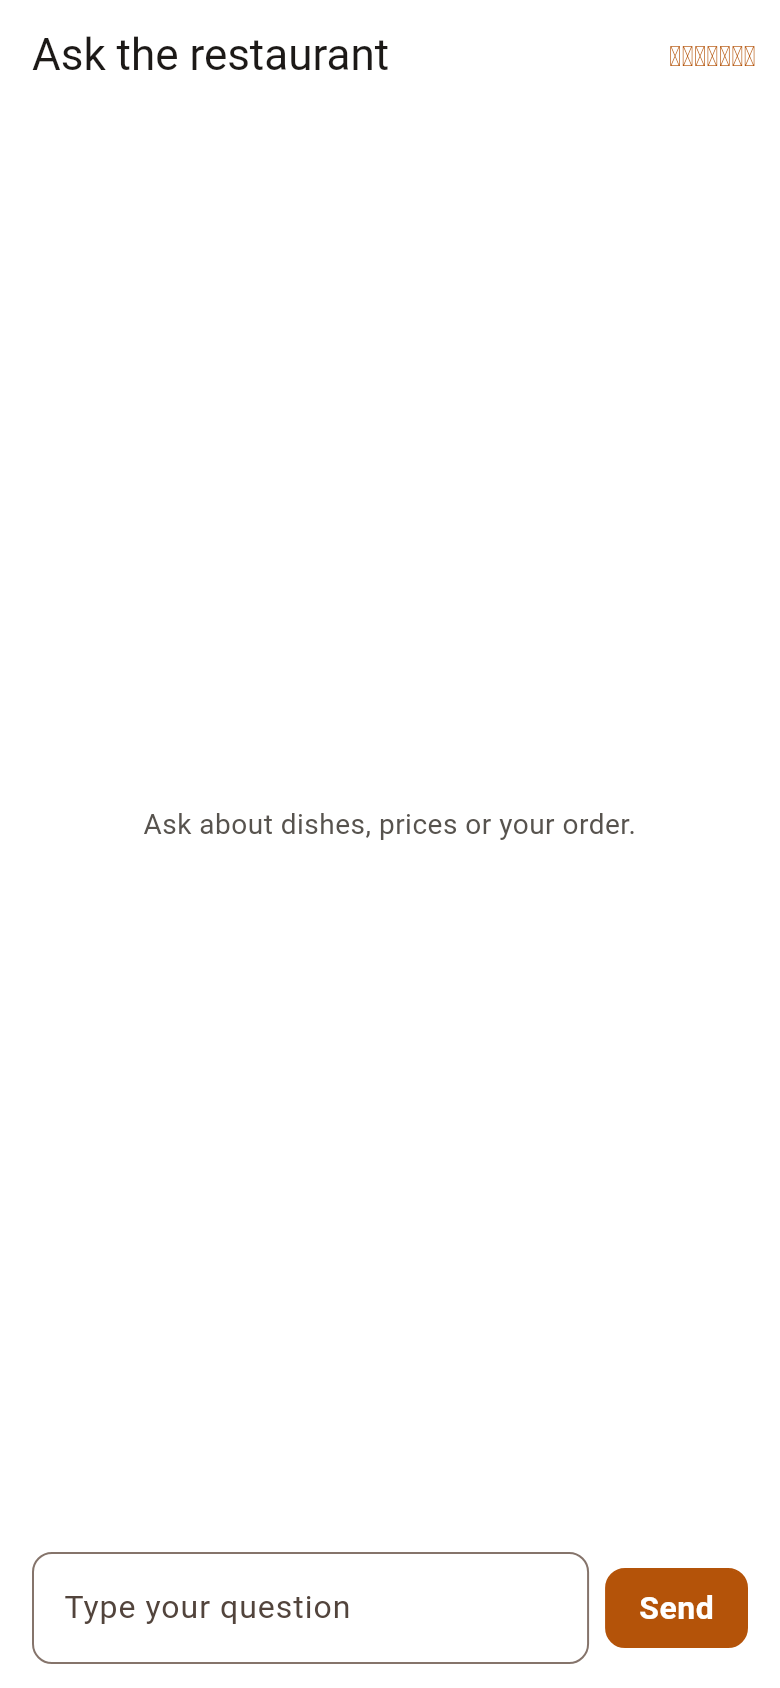
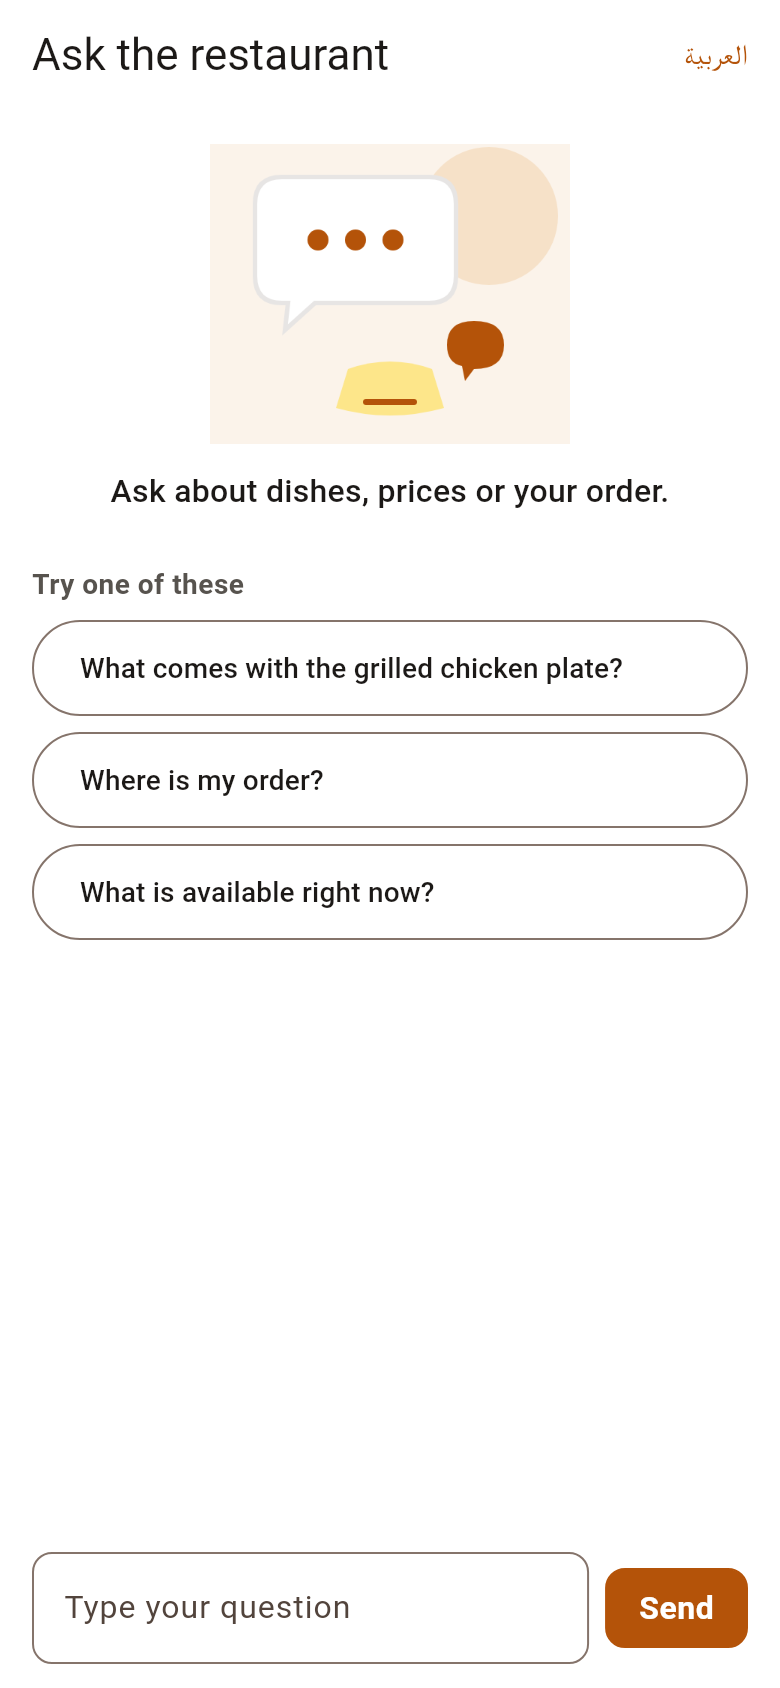
review: round 2 evidence, corrected totals and blocked items
Records the axe-core scan of seven admin pages at 1280 and 390 px (0
violations, 0 px overflow), the admin keyboard walk, the customer semantics
tests, the contrast table, and the captures for the new navigation.

Corrects the round 1 totals, which did not match their score rows: customer
76 after round 1 (printed as 78), admin 76. Round 2 is customer 83 and admin
78, both CONDITIONAL.

Still blocked: screen-reader and keyboard checks on a device, Arabic on a
device, the UAE copy review, and the customer keyboard pass.

Claude-Session: https://claude.ai/code/session_01Cz3SFRn5hDTUEeGBn2V1Rh

diff --git a/replica/ux-review-2026-10-29.md b/replica/ux-review-2026-10-29.md
@@ -1,50 +1,97 @@
 # Experience review: customer app and admin console
 
 Run with the Experience Architect skill pack (installed at `.claude/skills/`, in REVIEW mode with the screen review
-protocol and the scoring gate). Date: 2026-10-29. Reviewer's scores are estimates from the captures listed below; they
-are not user-tested.
+protocol and the scoring gate). Date: 2026-10-29. Scores are estimates from the captures and automated checks listed
+below. Nothing here has been user-tested or run with a screen reader.
 
 ## Verdict
 
-**CONDITIONAL.** The customer app scores **78/100** and the admin console **76/100** after this round of fixes. Before
-the fixes, both were below 75 (FAIL). The verdict is CONDITIONAL, not PASS, for one reason: no assistive-technology
-(screen-reader or keyboard) verification has been run, so every accessibility claim stays `UNKNOWN`. The skill allows
-a formal release PASS only with E4 evidence on the critical journeys.
+**CONDITIONAL, both surfaces.** After round 2 the customer app scores **83/100** and the admin console **78/100**.
+Round 1 scores were 76 and 76; the round 1 total for the customer app was printed as 78 and has been corrected here
+(see "Score correction" below). Both are in the 75–84 band.
 
-No hard-stop failure was found in the screens reviewed.
+Neither surface can reach PASS yet, for two reasons:
+
+1. No assistive-technology pass has run on a device. TalkBack and VoiceOver are not available in this environment, so
+   screen-reader behaviour is `UNKNOWN`. The customer app has no keyboard pass at all.
+2. Arabic has not been checked on a device, and the UAE regional rules have not been applied to the Arabic copy.
+
+No hard-stop failure was found in the screens reviewed. Accessibility is below 12 on both surfaces, which blocks PASS
+under the gate regardless of the other scores.
+
+## Round 2: what changed
+
+- **Bottom navigation (customer):** the signed-in app now has four destinations: Home, Menu, My orders, Membership.
+- **Ask the restaurant (customer):** an icon in the app bar of Home and Menu. In round 2 it was first a floating button,
+  which covered the Add button of the second popular dish. The final capture shows the Add buttons unobstructed.
+- **Assistant empty state (customer):** an illustration, one line of guidance, and three example questions that fill
+  the input when tapped.
+- **Admin narrow layout:** sidebar stacks below 720 px; tables scroll inside their cards; page-level overflow is 0 px at
+  390 px and 1280 px in the scan.
+- **Admin names and focus:** every table region is focusable and named; the Products, Offers, Promotions, Categories,
+  Orders and Zones tables have row and column headers; the Accept button names its order.
 
 ## Evidence
 
-| Surface | Screens | Evidence level | What was checked | What was not |
-| --- | --- | --- | --- | --- |
-| Customer app | Home (English and Arabic), menu, cart, checkout, orders, order tracking, membership, sign-in, assistant | E3 rendered | Real Flutter rendering at 390×844 with the app's theme and Roboto fonts; images and layout | Screen reader, keyboard, focus order, dynamic type. Arabic letters do not render in the capture font, so Arabic is checked by layout only |
-| Admin console | Login, orders, products, categories, offers, promotions, delivery areas, assistant | E3 rendered | Real browser pages with the API running on the test database | Keyboard-only pass, screen-reader pass, responsive widths below 1280 px |
+| Surface | Evidence level | What was checked | What was not |
+| --- | --- | --- | --- |
+| Customer app | E3 rendered + E2 automated | 11 screen captures at 390×844 (`replica/review/screens/`); four semantics tests (every icon button named, every icon button and menu button at least 48 px, four nav destinations labelled, Ask button tooltip in Arabic); 60/60 Flutter tests | Screen reader on a device; keyboard or switch access; focus order; dynamic type; Arabic on a device (captures use FreeSerif as the fallback font) |
+| Admin console | E3 rendered + E2 automated | axe-core 4.14.0 scan of 7 pages at 1280 px and 390 px: **0 violations**, 0 px page overflow (`replica/review/admin/axe-results.json`); keyboard walk of the sidebar and tables: every stop has a name and a visible focus outline; screenshots at both widths | Accepting an order by keyboard (the test database had no unaccepted orders); screen reader on a device; 768 px; tablet widths |
 
-Screenshots: `replica/review/screens/` (customer) and `replica/review/admin/` (admin), before and after.
+Scripts: `replica/review/tools/` (axe scan, keyboard walk, overflow finder). Screenshots: `replica/review/screens/` and
+`replica/review/admin/`.
+
+### Colour contrast (customer tokens)
+
+WCAG 2.2 AA: 4.5:1 for text, 3:1 for non-text. Computed from the theme tokens with the relative luminance formula.
+
+| Pair | Ratio | Result |
+| --- | --- | --- |
+| Text on background | 17.49 | Pass |
+| Muted text on background | 7.63 | Pass |
+| Muted text on surface | 6.99 | Pass |
+| Accent on background | 5.02 | Pass |
+| On-accent on accent | 5.02 | Pass |
+| Danger on background | 6.47 | Pass |
+| Hero subtitle | 16.03 | Pass |
+| Lilac, peach and mint tone inks | 7.57, 6.38, 6.78 | Pass |
+| Membership brand text | 8.98 | Pass |
+| Accent icon on accent-soft (non-text) | 4.48 | Pass (3:1 applies) |
+| Disabled "Coming soon" label | 2.45 | Exempt: inactive controls are not held to the text rule |
 
 ## Scores
 
-Dimensions from the skill's scoring engine (100 points). "Before" is the first capture; "After" is this round.
+Round 2 scores by dimension (100 points). "R1" is the round 1 total from the rows below it; "R2" is this round.
 
-| Dimension | Weight | Customer before → after | Admin before → after |
-| --- | --- | --- | --- |
-| Task success | 15 | 10 → 12 | 10 → 12 |
-| Accessibility | 15 | 6 → 8 (UNKNOWN for AT) | 6 → 8 (UNKNOWN for AT) |
-| Usability | 10 | 6 → 8 | 6 → 8 |
-| Cognitive clarity | 10 | 6 → 8 | 5 → 8 |
-| Information architecture | 8 | 5 → 7 | 6 → 7 |
-| Interaction quality | 8 | 4 → 6 | 4 → 6 |
-| Error prevention and recovery | 7 | 5 → 5 | 5 → 5 |
-| Cultural and local relevance | 6 | 4 → 5 | 4 → 4 |
-| Visual hierarchy and craft | 6 | 2 → 5 | 2 → 6 |
-| Content clarity | 5 | 3 → 4 | 3 → 4 |
-| Responsive and adaptive | 4 | 3 → 3 | 2 → 2 |
-| Design-system consistency | 3 | 2 → 2 | 2 → 3 |
-| Trust and ethical design | 3 | 2 → 3 | 2 → 3 |
-| **Total** | **100** | **52 → 78** | **53 → 76** |
+| Dimension | Weight | Customer R1 → R2 | Admin R1 → R2 | What moved |
+| --- | --- | --- | --- | --- |
+| Task success | 15 | 12 → 12 | 12 → 12 | No new task evidence |
+| Accessibility | 15 | 8 → 10 | 8 → 9 | Automated checks and the admin keyboard walk. AT still `UNKNOWN`, so capped |
+| Usability | 10 | 8 → 8 | 8 → 8 | |
+| Cognitive clarity | 10 | 8 → 9 | 8 → 8 | Four destinations are visible at once |
+| Information architecture | 8 | 7 → 8 | 7 → 7 | Membership, orders and assistant no longer hidden in "More" |
+| Interaction quality | 8 | 6 → 7 | 6 → 6 | The Ask button no longer covers Add buttons |
+| Error prevention and recovery | 7 | 5 → 5 | 5 → 5 | |
+| Cultural and local relevance | 6 | 5 → 5 | 4 → 4 | UAE rules not yet applied to Arabic copy |
+| Visual hierarchy and craft | 6 | 5 → 6 | 6 → 6 | Assistant illustration and empty state |
+| Content clarity | 5 | 4 → 5 | 4 → 4 | Example questions in the assistant |
+| Responsive and adaptive | 4 | 3 → 3 | 2 → 3 | Admin tables scroll; no page overflow at 390 or 1280 px. 768 px not checked |
+| Design-system consistency | 3 | 2 → 2 | 3 → 3 | |
+| Trust and ethical design | 3 | 3 → 3 | 3 → 3 | |
+| **Total** | **100** | **76 → 83** | **76 → 78** | |
+
+### Score correction
+
+The round 1 totals printed in the earlier version of this review did not match their rows. Summed from the rows,
+round 1 was:
+
+- Customer, before: 58 (printed as 52). After: 76 (printed as 78).
+- Admin, before: 57 (printed as 53). After: 76 (printed as 76).
+
+The verdict for round 1 does not change: both surfaces were in the same band before and after round 1. The totals above
+are the sums of the rows.
 
 Thresholds: 85 or more with no open S1 and accessibility at 12 or more is a PASS. 75–84 is CONDITIONAL. Below 75 is FAIL.
-Both surfaces are below 85, and accessibility is below 12 because it has not been tested.
 
 ## Findings and status
 
@@ -53,30 +100,32 @@ issue, S4 is polish.
 
 | # | Surface | Sev | Finding | Status |
 | --- | --- | --- | --- | --- |
-| 1 | Customer | S2 | The screens had no imagery. Every surface was text on white, so the app looked blank | Fixed: flat illustrations for the hero, the empty cart and orders, membership, and dish pictures |
+| 1 | Customer | S2 | The screens had no imagery | Fixed: flat illustrations for the hero, empty states, membership, and dish pictures |
 | 2 | Customer | S2 | The membership plan showed "AED 0.00 per year", which reads as a free plan | Fixed: "Price to be announced" until the price is confirmed and the plan is active |
-| 3 | Customer | S2 | The home app bar had five icons and cut the title to "Sample …" | Fixed: language stays; membership, orders, assistant and sign-out move into a "More" menu |
-| 4 | Customer | S3 | Membership, orders and assistant are now behind "More", so they are harder to find | Open: a bottom navigation bar would fix this. Needs a decision on the four destinations |
+| 3 | Customer | S2 | The home app bar had five icons and cut the title | Fixed in round 1: the More menu. Round 2 moved Ask into the app bar as an icon |
+| 4 | Customer | S3 | Membership, orders and assistant were behind "More" | Fixed in round 2: bottom bar with Home, Menu, My orders and Membership |
 | 5 | Customer | S2 | The quick action "Track order" was cut to "Tra…" | Fixed: icon above a label that wraps to two lines |
-| 6 | Customer | S3 | Dish names broke mid-word in the popular list ("chicke n plate") and prices did not line up | Fixed: a thumbnail row with the name and price in fixed columns |
-| 7 | Customer | S2 | The Add button read "Add: Garden salad" and wrapped | Fixed: a round 48 px button, with the dish named in its tooltip and screen-reader label |
+| 6 | Customer | S3 | Dish names broke mid-word and prices did not line up | Fixed: a thumbnail row with the name and price in fixed columns |
+| 7 | Customer | S2 | The Add button read "Add: Garden salad" and wrapped | Fixed: a round 48 px button, with the dish named in its tooltip and label |
 | 8 | Customer | S3 | The membership tile summary was cut after two lines | Fixed: up to three lines, wider tiles |
 | 9 | Customer | S3 | Order cards had Material's default pink tint and a black outline | Fixed: the app's surface and border colours |
-| 10 | Customer | S3 | The assistant's empty state is plain text with no guidance | Open: add an illustration and two or three example questions |
+| 10 | Customer | S3 | The assistant's empty state was plain text | Fixed in round 2: illustration, guidance, three example questions |
 | 11 | Customer | S4 | The cake illustration reads as a wedge | Open: redraw |
-| 12 | Customer | S3 | The Arabic labels in the review captures show as boxes | Not a product defect: the capture font has no Arabic glyphs. Check on a device |
-| 13 | Customer | S3 | The UAE regional file is not yet applied to UI copy (for example, number and date conventions) | Open: apply it when the Arabic copy is reviewed |
-| 14 | Admin | S2 | The orders page used unstyled browser buttons and had no card or sort order | Fixed: shared classes, waiting orders listed first, a status for each order |
-| 15 | Admin | S2 | Products without photos showed a blank "No picture" box | Fixed: the category's illustration, chosen in the admin |
+| 12 | Customer | S3 | Arabic labels show as boxes in the captures | Not a product defect: the capture font has no Arabic glyphs. Open: check on a device |
+| 13 | Customer | S3 | The UAE regional rules are not applied to the Arabic copy | Open: needs a native-speaker review of the copy and the number, date, currency and phone display |
+| 14 | Admin | S2 | The orders page used unstyled browser buttons and had no sort order | Fixed: shared classes, waiting orders first, a status for each order |
+| 15 | Admin | S2 | Products without photos showed a blank box | Fixed: the category's illustration, chosen in the admin |
 | 16 | Admin | S2 | Categories had no picture setting | Fixed: a picture for each category, shown in the list and the add form |
-| 17 | Admin | S3 | The page headers stacked their controls instead of laying them out in a row | Fixed: a shared header style |
-| 18 | Both | S2 | Accessibility is unverified: no screen-reader or keyboard pass has been run | Open, blocks release PASS. Test plan below |
-| 19 | Admin | S3 | Responsive: the admin tables are not checked below 1280 px | Open |
+| 17 | Admin | S3 | The page headers stacked their controls | Fixed: a shared header style |
+| 18 | Both | S2 | Accessibility is unverified on a device; the customer app has no keyboard pass | Open. Blocks release PASS. Admin keyboard walk and axe scan are done |
+| 19 | Admin | S3 | Responsive below 1280 px | Fixed at 390 and 1280 px (axe 0 violations; 0 px overflow). Open: 768 px and the Accept button by keyboard |
+| 20 | Customer | S2 | The Ask button covered the Add button of the second popular dish | Fixed in round 2: moved to the app bar; capture confirms the Add buttons are clear |
+| 21 | Customer | S3 | The Flutter capture showed a black ring around the floating Ask button | Gone with the move to the app bar (not present in the final capture) |
 
 ## What changed (design system)
 
-- Illustrations: nine flat SVG files in `food-app/design/illustrations/`, rendered to PNG for the app and copied to the
-  admin.
+- Illustrations: nine flat SVG files in `food-app/design/illustrations/`, plus `assistant.svg`, rendered to PNG for the
+  app and copied to the admin.
 - Category pictures are data, not code: the `categories.illustration` column (set in the admin) chooses which
   illustration a category shows. The app maps the key to a file.
 - New tokens: accent soft background and three benefit tones. Hardcoded colours remain in the hero gradient and the
@@ -85,17 +134,28 @@ issue, S4 is polish.
 ## Acceptance tests for the next review
 
 1. Customer app, keyboard or switch access: every control on the home, menu, cart and checkout is reachable in order,
-   and each one has a visible focus state.
+   and each one has a visible focus state. **Not run.** The Flutter app has no keyboard harness.
 2. Screen reader (TalkBack and VoiceOver): the Add buttons speak the dish name; the membership tiles say their title
-   and summary; each order status is announced when it changes.
-3. Targets: every tappable control is at least 48 px (checked in the widget tests for the Add buttons only).
-4. Arabic on a device: the whole flow reads right to left and no label is cut off.
+   and summary; each order status is announced when it changes. **Not run.** No device in this environment. Automated
+   semantics checks pass, which is evidence for names and sizes only.
+3. Targets: every tappable control is at least 48 px. **Partly run:** the widget tests cover the Add buttons, icon
+   buttons and bottom bar; the full customer app has not been measured on a device.
+4. Arabic on a device: the whole flow reads right to left and no label is cut off. **Not run.** The captures show layout
+   with a fallback font only.
 5. Admin with keyboard only: sign in, move through the orders board, accept an order, and change a category picture.
-6. Admin at 768 px wide: the product and order tables scroll sideways without losing the Accept button.
+   **Partly run:** the sidebar and tables were walked by keyboard and every stop was named and focusable. Accepting an
+   order and changing a picture were not run.
+6. Admin at 768 px wide: the product and order tables scroll sideways without losing the Accept button. **Not run** at
+   768 px. 390 px and 1280 px pass the axe scan and show no page overflow.
 
 ## Method notes
 
-- Captures: `food-app/mobile/tool/review_capture_test.dart` renders the customer screens; run with
-  `flutter test tool/review_capture_test.dart --update-goldens`.
-- Admin captures: a Playwright script signs in and visits each page.
+- Customer captures: `food-app/mobile/tool/review_capture_test.dart` renders the customer screens into goldens. Run with
+  `flutter test tool/review_capture_test.dart --update-goldens`. Arabic is rendered with FreeSerif as the fallback font
+  in the capture only; the device uses the system Arabic font.
+- Customer semantics: `food-app/mobile/test/semantics_test.dart`.
+- Admin scan: `replica/review/tools/admin-a11y.mjs` (axe-core 4.14.0, 1280 and 390 px, seven pages); keyboard walk:
+  `replica/review/tools/keyboard.mjs`; overflow finder: `replica/review/tools/find-page-wide.mjs`.
+- Overflow at 390 px had no single source element. The admin's `.main` now clips horizontal overflow and card tables
+  scroll inside their own regions. The clip contains the overflow; it is a mitigation, not a confirmed root-cause fix.
 - The skill pack is in `.claude/skills/`: `experience-architect` (main) and six specialist skills.
